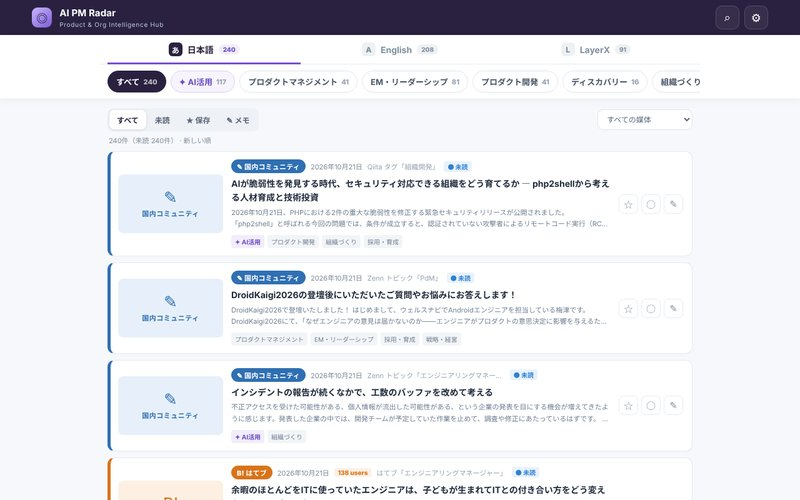
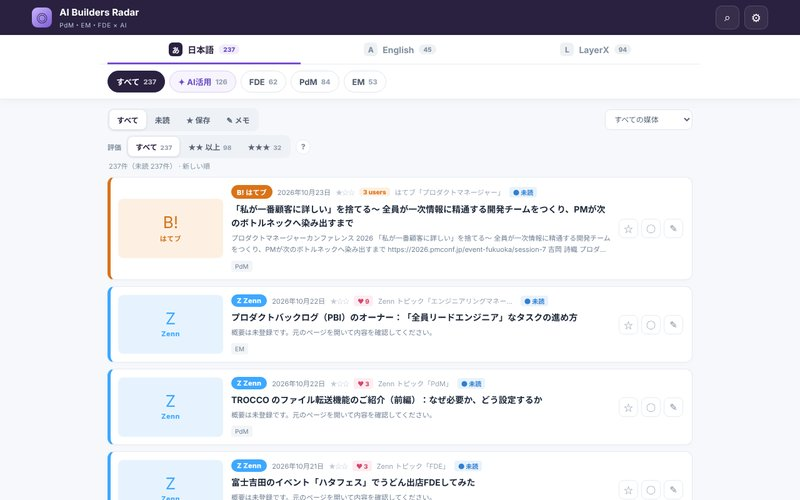
アプリ名を AI Builders Radar に変更（URL は ai-pm-radar のまま）
Claude-Session: https://claude.ai/code/session_0138pGigTYdFAo5RzCYJpJNH

diff --git a/ai-pm-radar/index.html b/ai-pm-radar/index.html
@@ -4,14 +4,14 @@
   <meta charset="utf-8">
   <meta name="viewport" content="width=device-width, initial-scale=1">
   <meta name="theme-color" content="#2a2140">
-  <title>AI PM Radar — Product &amp; Org Intelligence Hub</title>
+  <title>AI Builders Radar — PdM・EM・FDE × AI</title>
   <link rel="stylesheet" href="./styles.css?v=20261025">
 </head>
 <body>
   <header class="topbar">
-    <a class="brand" href="#" aria-label="AI PM Radar ホーム">
+    <a class="brand" href="#" aria-label="AI Builders Radar ホーム">
       <span class="brand-mark">◎</span>
-      <span><strong>AI PM Radar</strong><small>Product &amp; Org Intelligence Hub</small></span>
+      <span><strong>AI Builders Radar</strong><small>PdM・EM・FDE × AI</small></span>
     </a>
     <div class="header-actions">
       <button id="searchToggle" class="icon-btn" title="検索" aria-label="検索">⌕</button>

diff --git a/index.html b/index.html
@@ -34,7 +34,7 @@
     </a></li>
     <li><a class="game" href="./ai-pm-radar/">
       <div class="thumb"><img src="./thumbs/ai-pm-radar.jpg" alt="" width="800" height="500" loading="lazy"><span class="new">NEW</span></div>
-      <div class="body"><div class="name">AI PM Radar</div></div>
+      <div class="body"><div class="name">AI Builders Radar</div></div>
     </a></li>
     <li><a class="game" href="./petapeta-craft/">
       <div class="thumb"><img src="./thumbs/petapeta-craft.jpg" alt="" width="800" height="500" loading="lazy"><span class="new">NEW</span></div>

diff --git a/ai-pm-radar/scripts/fetch_sources.py b/ai-pm-radar/scripts/fetch_sources.py
@@ -49,7 +49,7 @@ ROOT = Path(__file__).resolve().parents[1]
 SOURCES_FILE = ROOT / "data" / "sources.json"
 ITEMS_FILE = ROOT / "data" / "items.json"
 META_FILE = ROOT / "data" / "meta.json"
-USER_AGENT = "Mozilla/5.0 (compatible; AI-PM-Radar/1.0; personal public-source aggregator)"
+USER_AGENT = "Mozilla/5.0 (compatible; AI-Builders-Radar/1.0; personal public-source aggregator)"
 TIMEOUT = 25
 MAX_ITEMS = 600
 DEFAULT_MAX_AGE_DAYS = 180

diff --git a/README.md b/README.md
@@ -4,7 +4,7 @@
 
 - 一覧ページ: https://naoto613.github.io/games/
 - 余白のアーカイブ — 世界がそうなった理由 —: https://naoto613.github.io/games/yohaku-archive/
-- AI PM Radar: https://naoto613.github.io/games/ai-pm-radar/
+- AI Builders Radar: https://naoto613.github.io/games/ai-pm-radar/
 - ぺたぺた！つくってワールド: https://naoto613.github.io/games/petapeta-craft/
 - ぺたぺた！あそびタウン: https://naoto613.github.io/games/petapeta-town/
 - モンスター・エコーズ 〜ルナフィアと ひかりのクリスタル〜: https://naoto613.github.io/games/monster-echoes/
@@ -30,7 +30,7 @@
 │   ├── tests/              # Vitest（因果編集・戦闘・セーブ・全パズルの結末への到達可能性・区域とスクリプトの整合性・難易度表 tests/balance）
 │   └── tools/              # e2e.mjs（Playwright で序章〜第一章の結末まで通しプレイ）、shot.mjs
 ├── ai-pm-radar/
-│   ├── index.html          # AI PM Radar（AI活用・FDE・PdM・EM の4テーマに絞って良質な公開情報を集める静的ダッシュボード。日本語／English／LayerX（旧 LayerX Radar：LayerX の公開技術情報）をタブで分けて表示し、その下の4つのテーマチップで切り替え。一覧はいつも新しい順、既読・ブックマーク・学びのメモ・手動追加は localStorage）
+│   ├── index.html          # AI Builders Radar（AI活用・FDE・PdM・EM の4テーマに絞って良質な公開情報を集める静的ダッシュボード。日本語／English／LayerX（旧 LayerX Radar：LayerX の公開技術情報）をタブで分けて表示し、その下の4つのテーマチップで切り替え。一覧はいつも新しい順、既読・ブックマーク・学びのメモ・手動追加は localStorage）
 │   ├── app.js / styles.css
 │   ├── data/               # items.json・sources.json（Zenn・Qiita（いいね数で足切り）・はてブ検索RSS（ブックマーク数で足切り）・海外ニュースレター・LayerX のブログ／YouTube／Speaker Deck）・meta.json
 │   ├── scripts/fetch_sources.py  # APIキー不要の収集（RSS/Atom・YouTube 公開フィード。テーマは日英キーワードで推定）

diff --git a/ai-pm-radar/README.md b/ai-pm-radar/README.md
@@ -1,4 +1,4 @@
-# AI PM Radar — Product & Org Intelligence Hub
+# AI Builders Radar — PdM・EM・FDE × AI
 
 AI活用・FDE（Forward Deployed Engineer）・PdM・EM の4テーマに絞って、良質な公開情報を集めて読むための静的 HTML アプリと、APIキーを使わない定期収集ジョブです。静的ページ＋`data/*.json`＋Python 収集スクリプト＋GitHub Actions のつくりです。旧 LayerX Radar（LayerX の公開技術情報）は「LayerX」タブとして統合しました。
 
